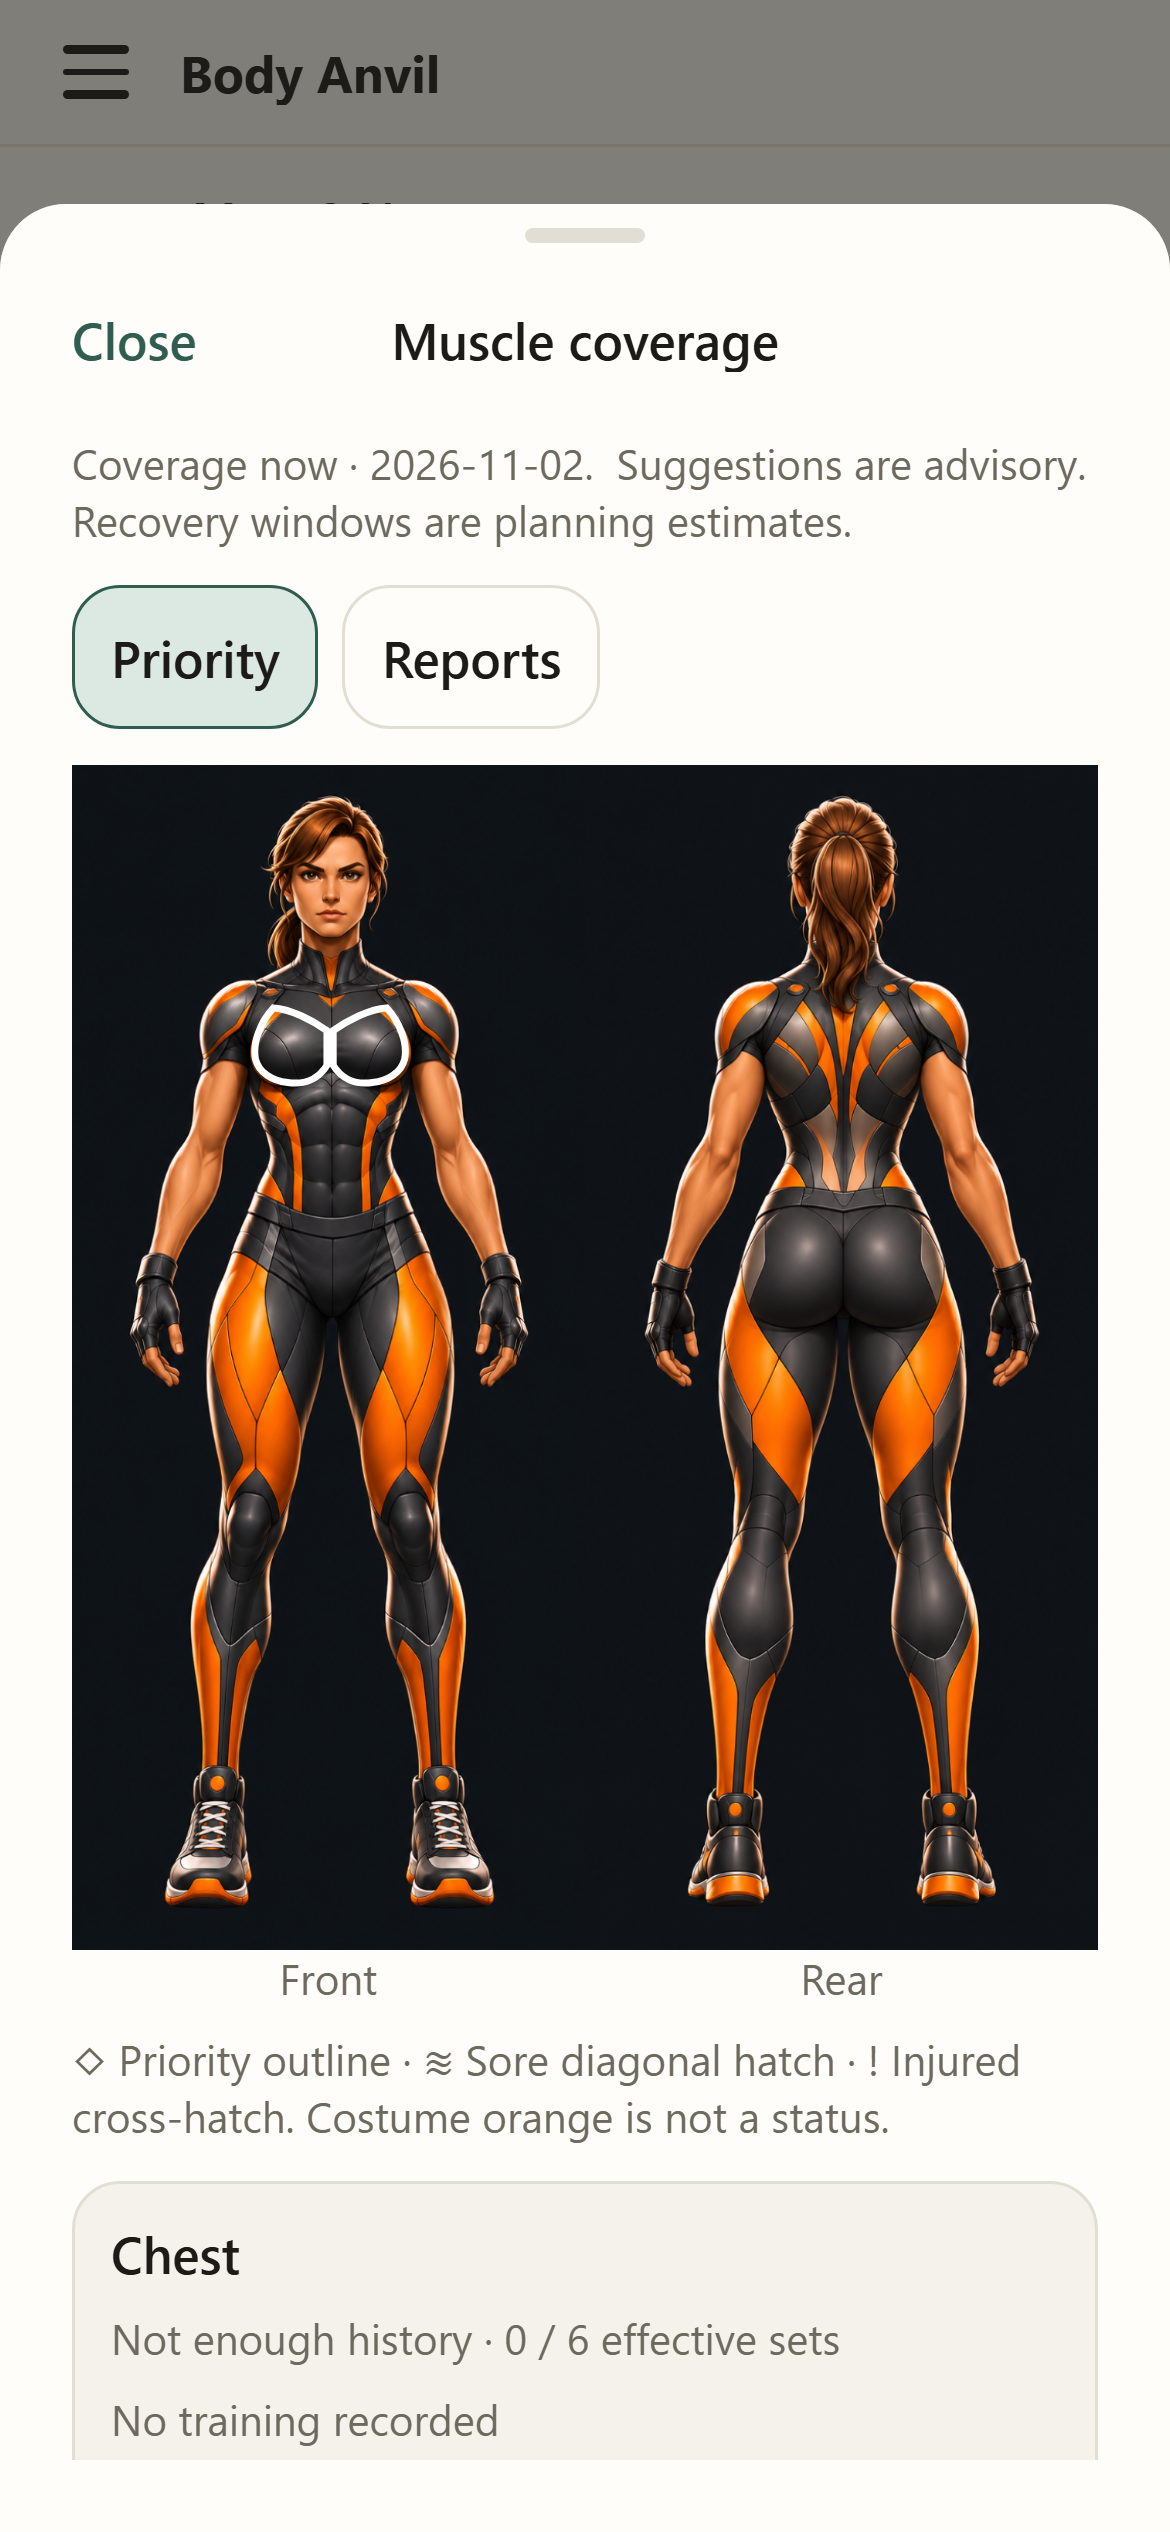
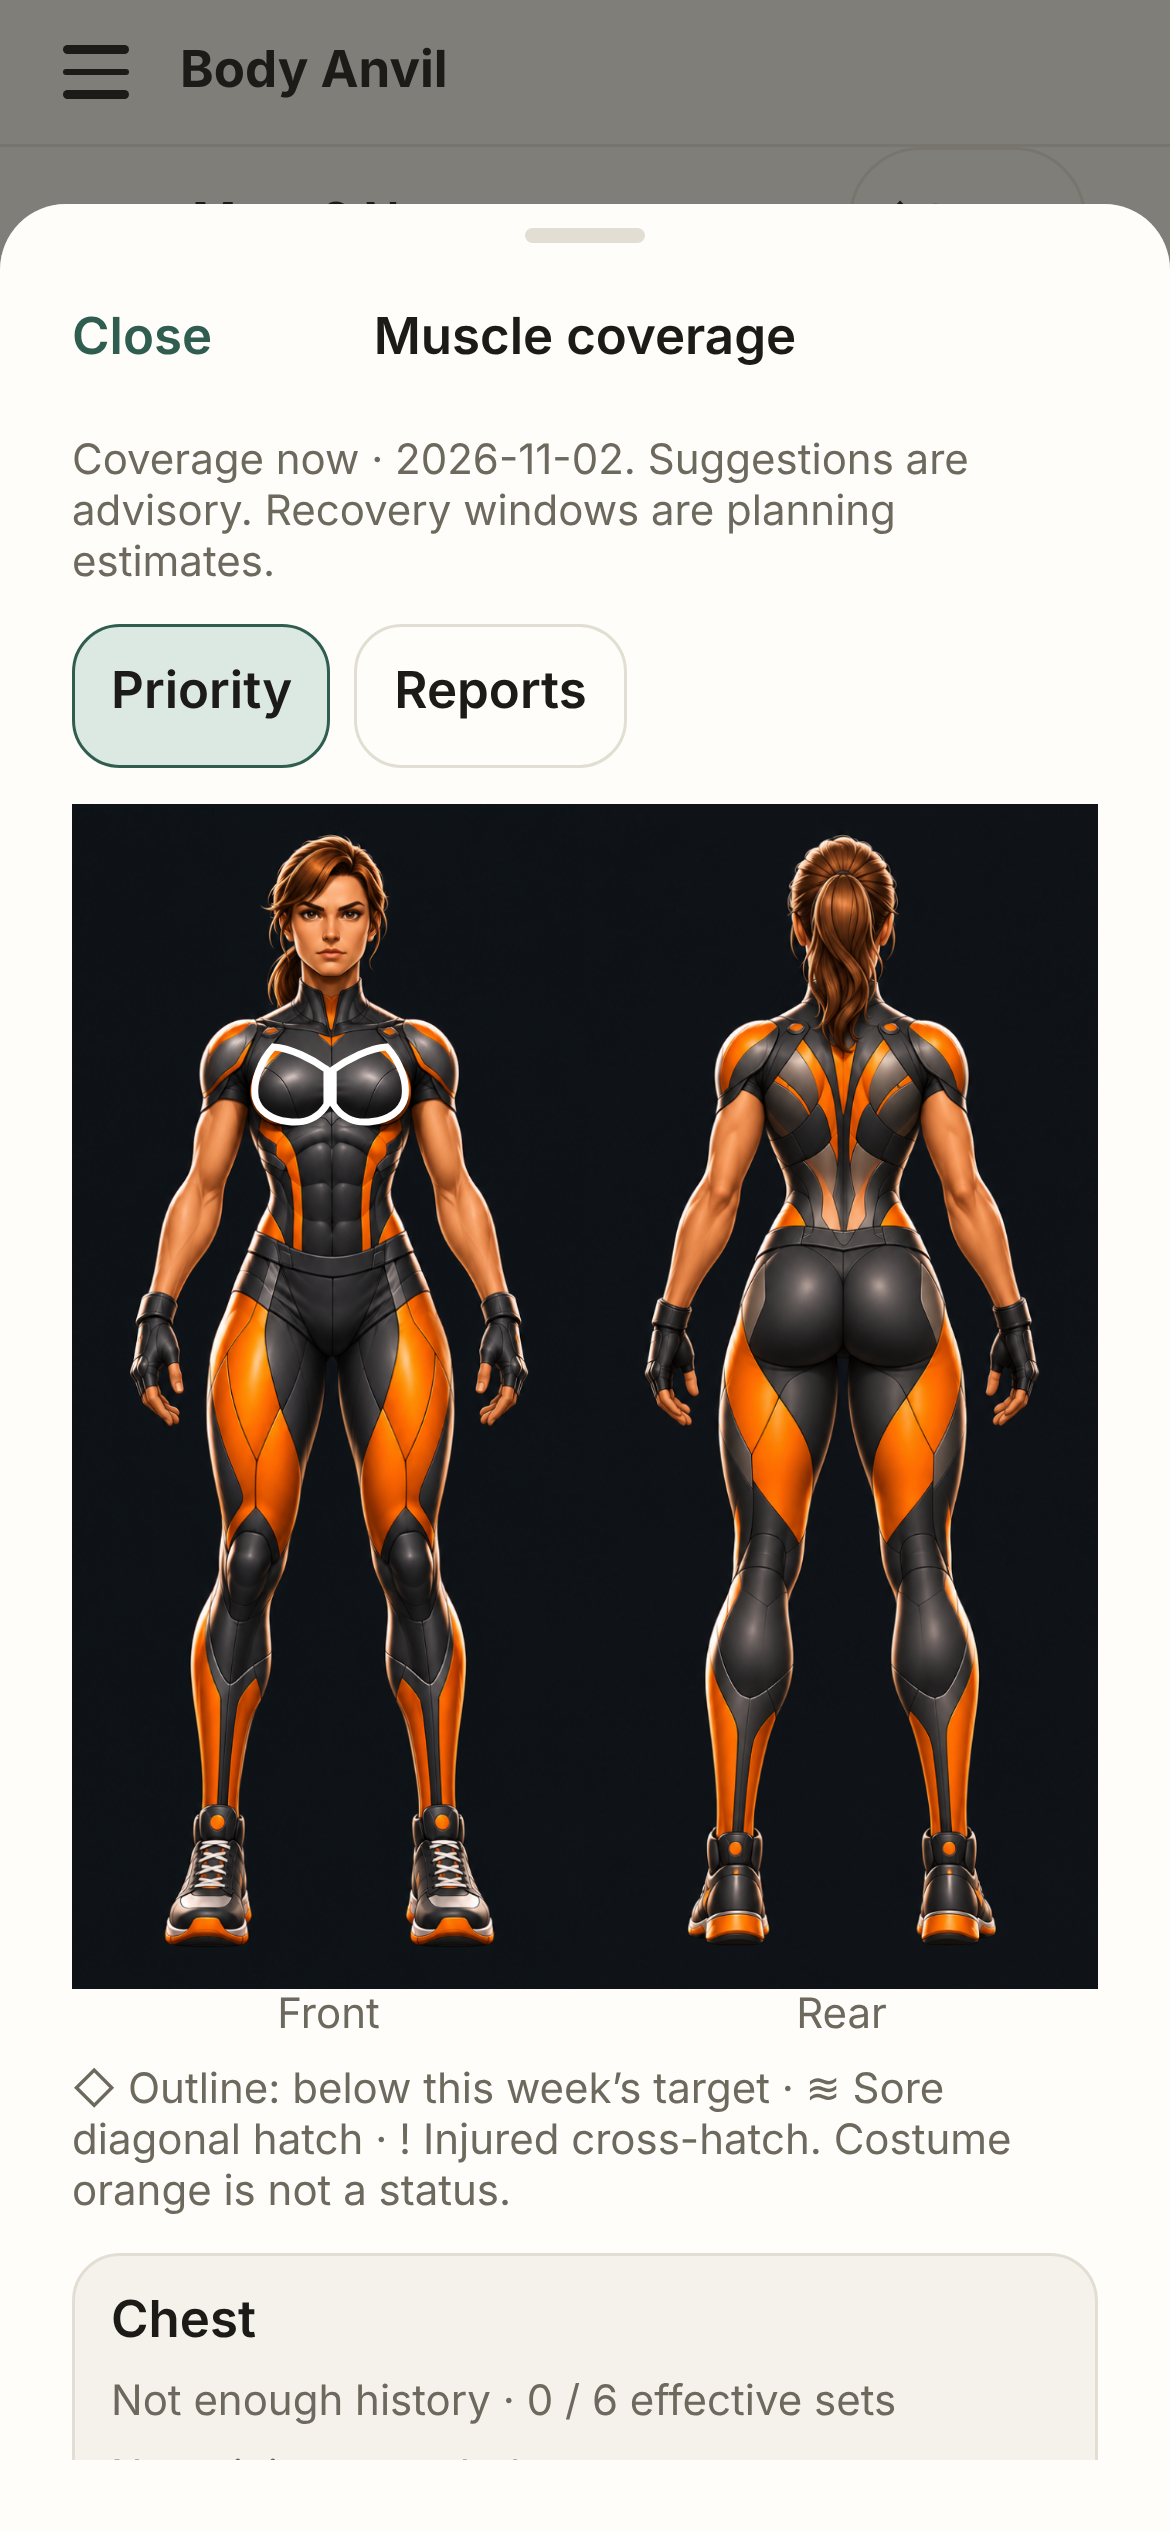
Muscle coverage: per-view legend, Reports empty state, tab names (#75)
Acceptance-audit fixes for the shipped Hero Forge coverage sheet:
- the Reports view no longer lists a "Priority outline" it never draws;
  the Priority legend says what the outline means (below this week's target);
- the Reports view says when nothing is reported;
- tab accessible names start with their visible labels (Priority, Reports);
- removes a double space in the intro line.
Contract 09 updated; coverage captures refreshed (content changed).

Claude-Session: https://claude.ai/code/session_0138hqepTm7t2Jik5cjGDyWq

diff --git a/src/features/muscles/CoverageSheet.tsx b/src/features/muscles/CoverageSheet.tsx
@@ -93,11 +93,12 @@ export function CoverageSheet({ date, editable, session, onClose, initialPage = 
       {!!error && <View><Text style={[type.body, { color: colors.injured }]} accessibilityRole="alert">{error}</Text>{!state && <Button title="Retry coverage" onPress={() => load().then(() => setError('')).catch(() => setError('Could not load coverage. Try again.'))} />}</View>}
       {!state && !error && <ActivityIndicator color={colors.accent} accessibilityLabel="Loading coverage" />}
       {page === 'map' && state && <>
-        <Text style={type.detail}>Coverage now · {today}. {state.restDay ? 'Rest day; voluntary exercise is still available.' : ''} Suggestions are advisory. Recovery windows are planning estimates.</Text>
+        <Text style={type.detail}>Coverage now · {today}.{state.restDay ? ' Rest day; voluntary exercise is still available.' : ''} Suggestions are advisory. Recovery windows are planning estimates.</Text>
         <View style={styles.tabs} role="radiogroup" aria-label="Muscle display">
-          {(['priority', 'reports'] as const).map(value => <Pressable key={value} role="radio" aria-label={value === 'priority' ? 'Muscle priority' : 'Soreness and injury'} aria-checked={mode === value} onPress={() => setMode(value)} style={[styles.tab, mode === value && styles.selected]}><Text style={type.body}>{value === 'priority' ? 'Priority' : 'Reports'}</Text></Pressable>)}
+          {(['priority', 'reports'] as const).map(value => <Pressable key={value} role="radio" aria-label={value === 'priority' ? 'Priority' : 'Reports: soreness and injury'} aria-checked={mode === value} onPress={() => setMode(value)} style={[styles.tab, mode === value && styles.selected]}><Text style={type.body}>{value === 'priority' ? 'Priority' : 'Reports'}</Text></Pressable>)}
         </View>
         <MuscleMap gender={plan.profile?.gender} coverage={state.coverage} mode={mode} selected={selected} onSelect={setSelected} />
+        {mode === 'reports' && !state.coverage.some(m => m.report) && <Text style={type.detail} testID="reports-empty">No sore or injured muscles reported. Select a muscle below to report one.</Text>}
         {detail && <View style={styles.card} testID="muscle-detail" accessibilityLiveRegion="polite">
           <Text style={type.body}>{detail.label}</Text>
           <Text style={type.detail}>{coverageLabel(detail)} · {detail.volume} / {detail.target} effective sets</Text>

diff --git a/src/features/muscles/MuscleMap.tsx b/src/features/muscles/MuscleMap.tsx
@@ -10,6 +10,12 @@ export function coverageLabel(c: MuscleCoverage): string {
   if (c.report) return c.report === 'injured' ? '! Injured' : '≋ Sore';
   return ({ unknown: 'Not enough history', green: 'Coverage on track', amber: 'Approaching target', red: 'Priority for training', recovering: 'Recovering', unavailable: 'Reported unavailable' })[c.status];
 }
+/** What each mode draws (#75): the legend only names marks that mode can show. */
+const legend: Record<MapMode, string> = {
+  priority: '◇ Outline: below this week’s target · ≋ Sore diagonal hatch · ! Injured cross-hatch. Costume orange is not a status.',
+  reports: '≋ Sore diagonal hatch · ! Injured cross-hatch. Costume orange is not a status.',
+  activated: '● Primary · dashed secondary. Activation preview only; not a completion.',
+};
 /** One shared pixel coordinate system for the supplied PNG and every independent region. */
 export function MuscleMap({ gender, coverage = [], mode = 'priority', activated = [], secondary = [], selected, onSelect, compact = false }: {
   gender?: unknown; coverage?: MuscleCoverage[]; mode?: MapMode; activated?: string[]; secondary?: string[];
@@ -44,6 +50,6 @@ export function MuscleMap({ gender, coverage = [], mode = 'priority', activated 
         {!compact && <Text style={[type.detail, { textAlign: 'center' }]}>{view === 'back' ? 'Rear' : 'Front'}</Text>}
       </View>)}
     </View>
-    {!compact && <Text style={[type.detail, { marginTop: 8 }]}>{mode === 'activated' ? '● Primary · dashed secondary. Activation preview only; not a completion.' : '◇ Priority outline · ≋ Sore diagonal hatch · ! Injured cross-hatch. Costume orange is not a status.'}</Text>}
+    {!compact && <Text style={[type.detail, { marginTop: 8 }]}>{legend[mode]}</Text>}
   </View>;
 }

diff --git a/e2e/hero-forge.spec.ts b/e2e/hero-forge.spec.ts
@@ -38,12 +38,19 @@ test('coverage reports, clears and logs an eligible exercise exactly once, survi
   await coverage(page);
   await expect(page.locator('[data-testid^="select-muscle-"]')).toHaveCount(14);
   await expect(page.getByTestId('muscle-detail')).toContainText('Not enough history');
+  // #75: the Reports view only shows reports; its legend doesn't name priority outlines.
+  await page.getByRole('radio', { name: /^Reports/ }).click();
+  await expect(page.getByTestId('reports-empty')).toBeVisible();
+  await expect(page.getByTestId('coverage-sheet').getByTestId('muscle-map-art')).not.toContainText('Outline');
   await page.getByRole('button', { name: 'Report sore', exact: true }).click();
   await expect(page.getByTestId('muscle-detail')).toContainText('≋ Sore');
   await expect(page.getByTestId('coverage-sheet').getByTestId('muscle-front-chest')).toHaveAttribute('fill', /sore/);
   await page.getByRole('button', { name: 'Report injured', exact: true }).click();
   await expect(page.getByTestId('muscle-detail')).toContainText('! Injured');
   await expect(page.getByTestId('coverage-sheet').getByTestId('muscle-front-chest')).toHaveAttribute('fill', /injured/);
+  await expect(page.getByTestId('reports-empty')).toHaveCount(0);
+  await page.getByRole('radio', { name: 'Priority', exact: true }).click();
+  await expect(page.getByTestId('coverage-sheet').getByTestId('muscle-map-art')).toContainText('◇ Outline: below this week’s target');
   await page.getByRole('button', { name: 'Clear report', exact: true }).click();
   await expect(page.getByTestId('muscle-detail')).not.toContainText('Injured');
   await page.getByRole('button', { name: 'Log exercise', exact: true }).click();

diff --git a/docs/design-contracts/09-exercise-guides.md b/docs/design-contracts/09-exercise-guides.md
@@ -93,7 +93,7 @@ Advisory planning only: the app orders and explains, it never blocks a choice or
 
 - All 14 inventory groups have accessible, named text rows with effective sets and explicit unknown/priority/coverage/recovering/sore/injured labels. Automatic recovery is never labelled as injury. Selecting a row brings the corresponding detail into view.
 - Supplied #77 PNGs and curved SVG region data are copied unchanged under `assets/hero-forge/app/`. PNG and path coordinates share the same 1024 × 1536 pixel system and scale proportionally. Profile `male`/`female` select their exact sets; absent/other/future values use the distinct neutral set. No new account or question.
-- Priority uses warm outlines. Activation-only views in exercise details use filled primary and dashed secondary regions, never completion state. Sore reports use diagonal hatching; injury uses cross-hatching. Labels are always available; tiny SVG regions are optional shortcuts, never the sole control. Deep hip flexors remain a schematic surface projection. Costume orange is not status.
+- Priority uses warm outlines (muscles below this week's target: approaching target and priority for training). The coverage sheet has two views: **Priority** (outlines plus any reports) and **Reports** (sore and injured only, with a plain message when nothing is reported). Each view's legend names only the marks it can show, and each tab's spoken name starts with its visible label. Activation-only views in exercise details use filled primary and dashed secondary regions, never completion state. Sore reports use diagonal hatching; injury uses cross-hatching. Labels are always available; tiny SVG regions are optional shortcuts, never the sole control. Deep hip flexors remain a schematic surface projection. Costume orange is not status.
 - **Report sore**, **Report injured**, **Clear report** call the existing store actions, refresh shared data and preserve cleared reports in history. Suggestions remain advisory and disclose held/caution reasons; all eligible choices stay available. Reports are global/current, not retrospective symptoms inferred from a past session.
 - The eligible exercise picker uses configured equipment and avoid/caution rules. It shows engine-ranked strength choices and separately labelled time-based conditioning. Dose fields are editable drafts: a prescribed dose when available, otherwise one set/rep or a 60-second conditioning draft requiring confirmation. Plank has an inventory-owned one-set/20-second draft. Strength logs can explicitly use repetitions or seconds; conditioning is always seconds per round. Nothing is logged by viewing activation or a guide.
 - Extra exercise logging has one stable submission ID over retries and a synchronous in-flight guard. Store upserts keep it idempotent. It never writes scheduled ticks, and session ticks never write extra logs. Recorded extra exercises can be removed. Scheduled exercises should use their checklist instead of an extra log.
